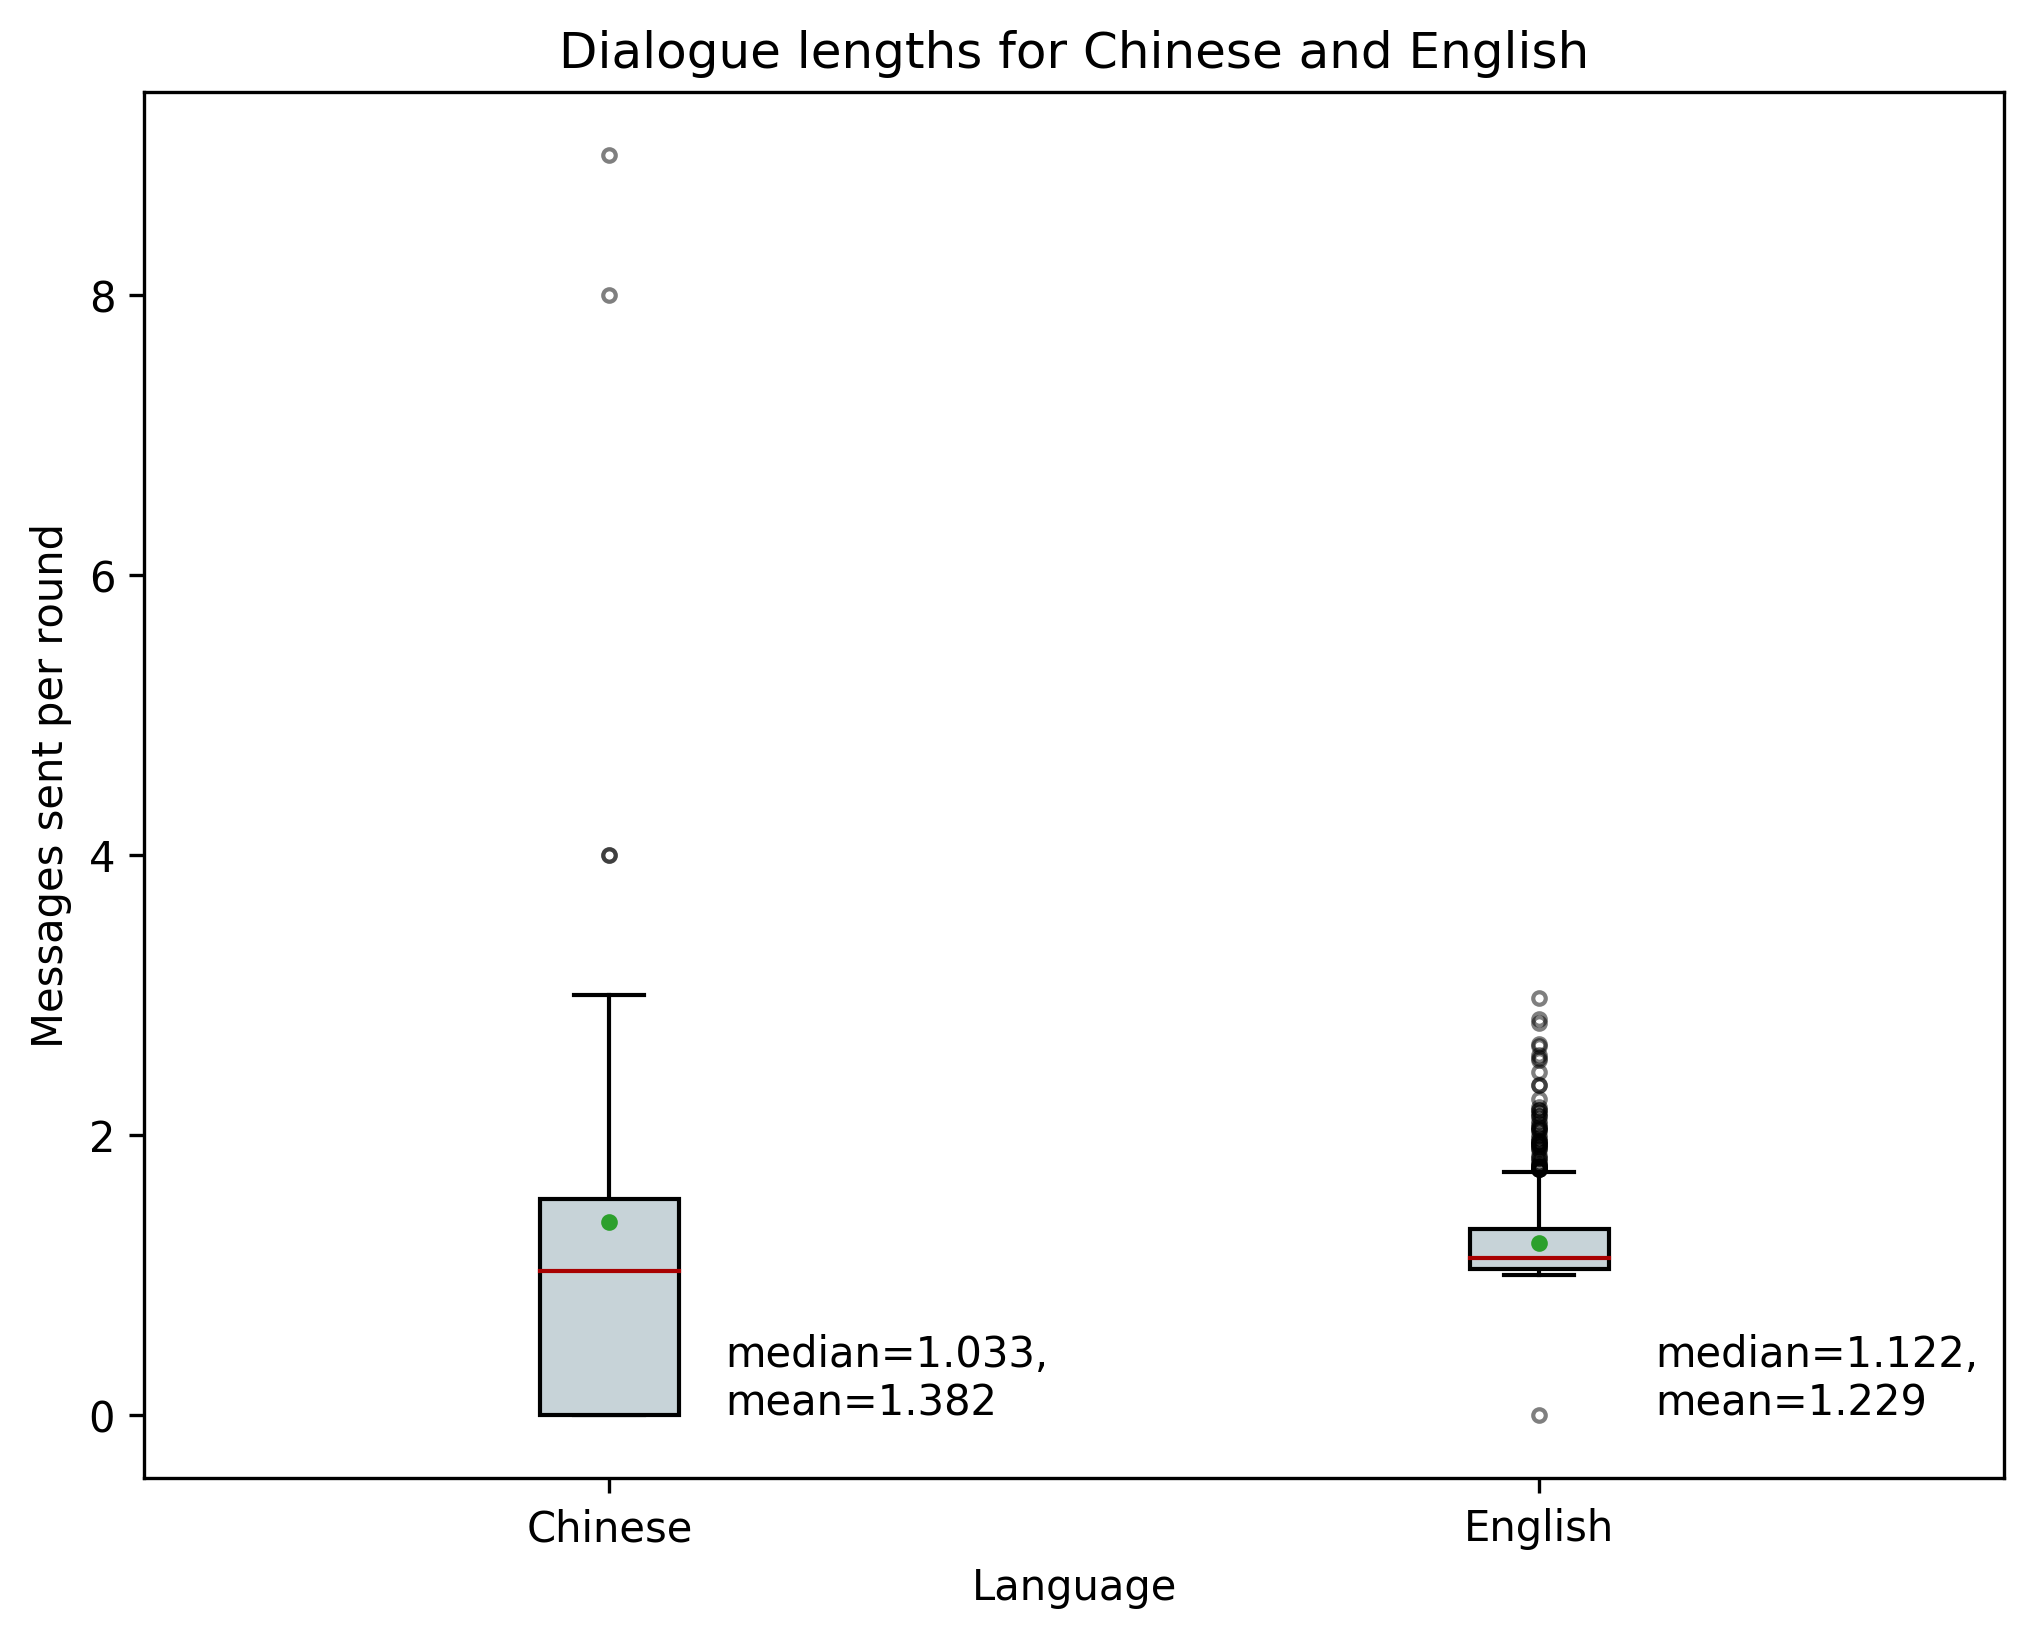
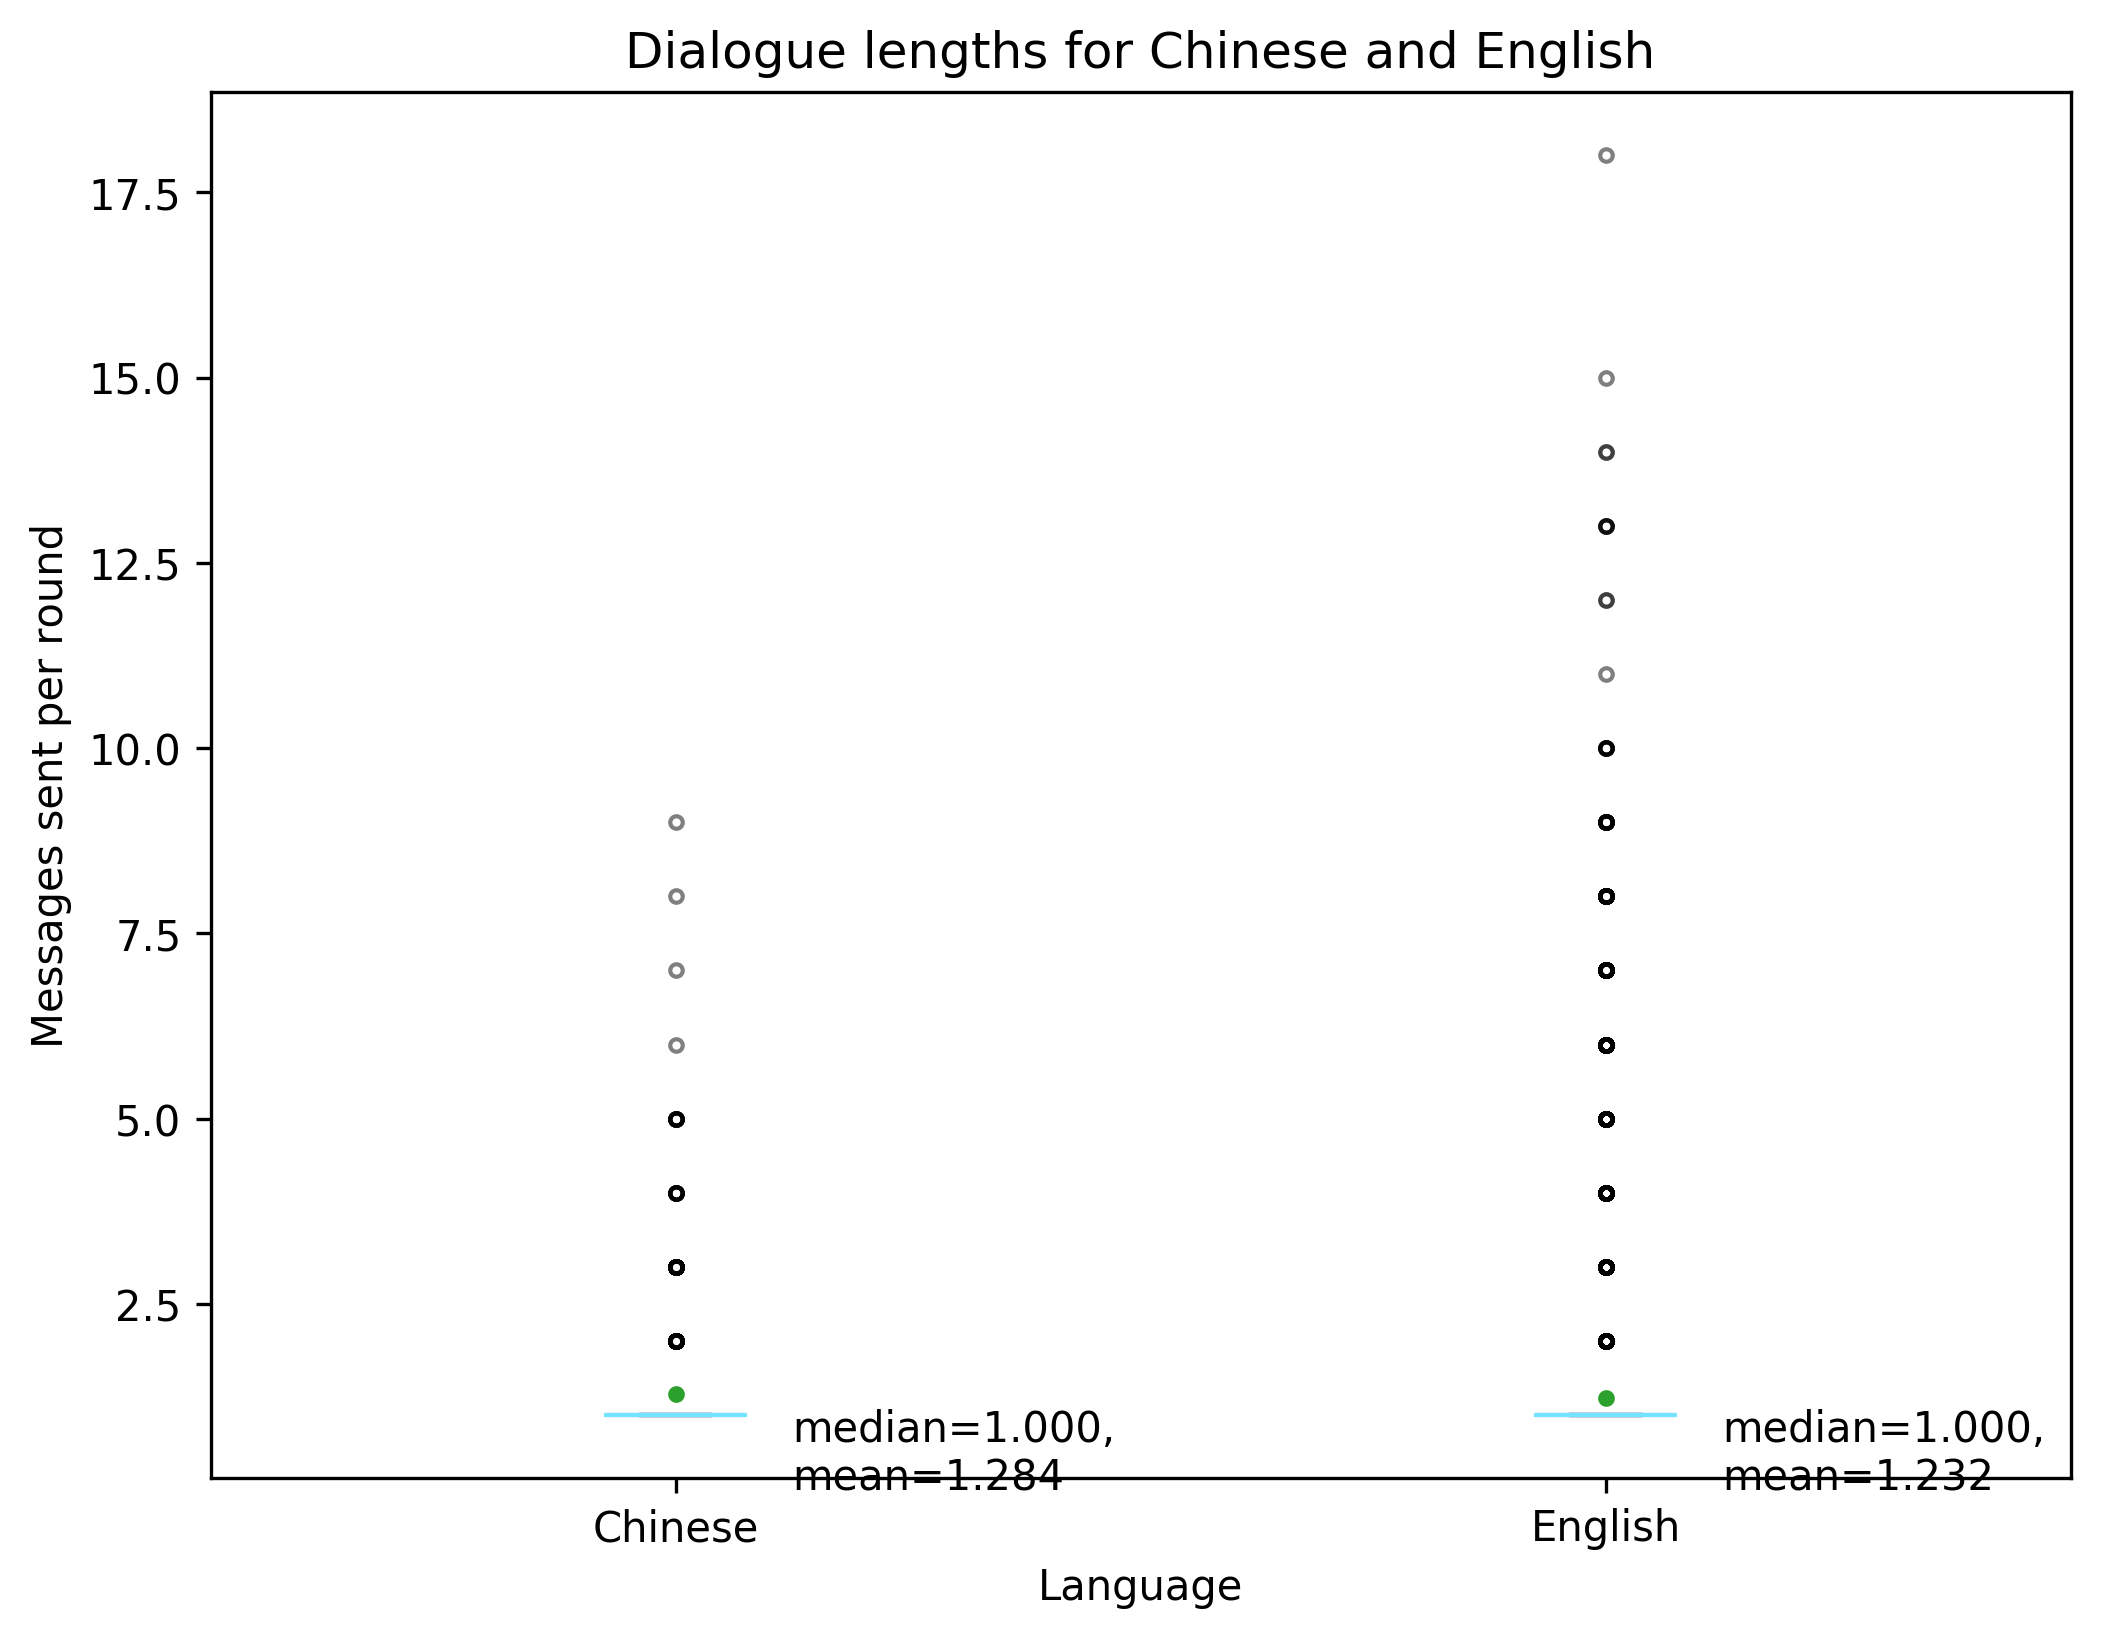
updated dlg_length function

diff --git a/languageAnalysis/comparison.py b/languageAnalysis/comparison.py
@@ -8,10 +8,12 @@ ZH_MSG_FILE = '../hawkins_data/colorReferenceMessageChinese.csv'
 ZH_CLICK_FILE = '../hawkins_data/colorReferenceClicksChinese.csv'
 EN_MSG_FILE = '../behavioralAnalysis/humanOutput/filteredCorpus.csv'
 PUNCTUATION = ['~',',','.','?','!','。','，','？','！','”']
+ZH_COLOR = '#EE3224'
+EN_COLOR = '#F78F1E'
 
 def msg_lengths(lang='english'):
     '''
-    Returns the average length of the messages sent for a given language
+    Returns the lengths of the messages sent for a given language
     (English or Chinese). For English, it counts the number of words
     (after removing punctuation and splitting on whitespaces), and for Chinese,
     it counts the number of chars (after removing punctuation, whitespaces,
@@ -37,34 +39,25 @@ def msg_lengths(lang='english'):
 
 def dlg_lengths(lang='english'):
     '''
-    Returns the average number of messages exchanged for a single round
+    Returns the numbers of messages exchanged for each round
     for a given language (English or Chinese).
     '''
     msg_file = ZH_MSG_FILE if lang == 'chinese' else EN_MSG_FILE
-    dlg_lengths = []
     with open(msg_file, 'r') as f:
         counts, gameid = {}, None
         for row in csv.DictReader(f):
-            if gameid == row['gameid']:
-                try:
-                    counts[row['roundNum']] += 1
-                except KeyError:
-                    counts[row['roundNum']] = 1
-            else:
-                avg_round_length = np.mean(counts.values()) if counts.values() else 0
-                dlg_lengths.append(avg_round_length)
-                counts, gameid = {}, row['gameid']
-    return dlg_lengths
+            roundid = str(row['gameid']) + str(row['roundNum'])
+            try:
+                counts[roundid] += 1
+            except KeyError:
+                counts[roundid] = 1
+    return counts.values()
 
-def superlative_usage(lang='english'):
-    '''
-    Returns how often superlatives are used on each of the three conditions
-    (far, split, close) for a given language (English or Chinese).
-    '''
-    msg_file = ZH_MSG_FILE if lang == 'chinese' else EN_MSG_FILE
+def usage(word='superlative', lang='english'):
     click_file = ZH_CLICK_FILE if lang == 'chinese' else EN_MSG_FILE
     if lang == 'chinese':
-        sups = {'further': [], 'closer': [], 'equal' : []}
+        msg_file = ZH_MSG_FILE
+        counts = {'further': [], 'closer': [], 'equal' : []}
         click_rows, msg_rows = [], []
         with open(click_file, 'r') as click_f:
             for click_row in csv.DictReader(click_f):
@@ -73,103 +66,46 @@ def superlative_usage(lang='english'):
             for msg_row in csv.DictReader(msg_f):
                 msg_rows.append(msg_row)
         for click_row in click_rows:
-            cond = click_row['condition']
-            gameid = click_row['gameid']
+            cond, gameid = click_row['condition'], click_row['gameid']
             game_msgs = [x['contents'] for x in msg_rows if x['gameid'] == gameid]
             for msg in game_msgs:
-                if '最' in msg:
-                    sups[cond].append(1)
+                if condition(msg, word=word, lang=lang):
+                    counts[cond].append(1)
                 else:
-                    sups[cond].append(0)
-        return np.mean(sups['further']), np.mean(sups['closer']), np.mean(sups['equal'])
+                    counts[cond].append(0)
+        return np.mean(counts['further']), np.mean(counts['closer']), np.mean(counts['equal'])
     else:
-        sups = {'far': [], 'split': [], 'close' : []}
+        counts = {'far': [], 'split': [], 'close' : []}
         with open(click_file, 'r') as f:
             for row in csv.DictReader(f):
                 cond = row['condition']
-                if 'est' in row['contents'] or ('most' in row['contents']
-                                            and 'almost' not in row['contents']):
-                    sups[cond].append(1)
+                if condition(row['contents'], word=word, lang=lang):
+                    counts[cond].append(1)
                 else:
-                    sups[cond].append(0)
-        return np.mean(sups['far']), np.mean(sups['split']), np.mean(sups['close'])
+                    counts[cond].append(0)
+        return np.mean(counts['far']), np.mean(counts['split']), np.mean(counts['close'])
 
-def comparative_usage(lang='english'):
-    '''
-    Returns how often comparatives are used on each of the three conditions
-    (far, split, close) for a given language (English or Chinese).
-    '''
-    msg_file = ZH_MSG_FILE if lang == 'chinese' else EN_MSG_FILE
-    click_file = ZH_CLICK_FILE if lang == 'chinese' else EN_MSG_FILE
-    if lang == 'chinese':
-        comps = {'further': [], 'closer': [], 'equal' : []}
-        click_rows, msg_rows = [], []
-        with open(click_file, 'r') as click_f:
-            for click_row in csv.DictReader(click_f):
-                click_rows.append(click_row)
-        with open(msg_file, 'r') as msg_f:
-            for msg_row in csv.DictReader(msg_f):
-                msg_rows.append(msg_row)
-        for click_row in click_rows:
-            cond = click_row['condition']
-            gameid = click_row['gameid']
-            game_msgs = [x['contents'] for x in msg_rows if x['gameid'] == gameid]
-            for msg in game_msgs:
-                if '更' in msg or '多' in msg or '少' in msg: # '比较' in msg
-                    comps[cond].append(1)
-                else:
-                    comps[cond].append(0)
-        return np.mean(comps['further']), np.mean(comps['closer']), np.mean(comps['equal'])
-    else:
-        comps = {'far': [], 'split': [], 'close' : []}
-        with open(click_file, 'r') as f:
-            for row in csv.DictReader(f):
-                cond = row['condition']
-                if ('er ' in row['contents'] and 'other ' not in row['contents'] \
-                                            and 'water' not in row['contents'] \
-                                            and 'hunter' not in row['contents']) \
-                    or 'more' in row['contents'] or 'less ' in row['contents']:
-                    comps[cond].append(1)
-                else:
-                    comps[cond].append(0)
-    return np.mean(comps['far']), np.mean(comps['split']), np.mean(comps['close'])
-
-def negation_usage(lang='english'):
-    '''
-    Returns how often negations are used on each of the three conditions
-    (far, split, close) for a given language (English or Chinese).
-    '''
-    msg_file = ZH_MSG_FILE if lang == 'chinese' else EN_MSG_FILE
-    click_file = ZH_CLICK_FILE if lang == 'chinese' else EN_MSG_FILE
-    if lang == 'chinese':
-        negs = {'further': [], 'closer': [], 'equal' : []}
-        click_rows, msg_rows = [], []
-        with open(click_file, 'r') as click_f:
-            for click_row in csv.DictReader(click_f):
-                click_rows.append(click_row)
-        with open(msg_file, 'r') as msg_f:
-            for msg_row in csv.DictReader(msg_f):
-                msg_rows.append(msg_row)
-        for click_row in click_rows:
-            cond = click_row['condition']
-            gameid = click_row['gameid']
-            game_msgs = [x['contents'] for x in msg_rows if x['gameid'] == gameid]
-            for msg in game_msgs:
-                if '不' in msg:
-                    negs[cond].append(1)
-                else:
-                    negs[cond].append(0)
-        return np.mean(negs['further']), np.mean(negs['closer']), np.mean(negs['equal'])
-    else:
-        negs = {'far': [], 'split': [], 'close' : []}
-        with open(click_file, 'r') as f:
-            for row in csv.DictReader(f):
-                cond = row['condition']
-                if 'not' in row['contents']:
-                    negs[cond].append(1)
-                else:
-                    negs[cond].append(0)
-        return np.mean(negs['far']), np.mean(negs['split']), np.mean(negs['close'])
+def condition(msg, word='superlative', lang='english'):
+    if word == 'superlative':
+        if lang == 'english':
+            return 'est' in msg \
+                    or ('most' in msg and 'almost' not in msg)
+        elif lang == 'chinese':
+            return '最' in msg
+    if word == 'comparative':
+        if lang == 'english':
+            return 'er ' in msg and 'other ' not in msg \
+                    and 'water' not in msg \
+                    and 'hunter' not in msg \
+                    or 'more' in msg or 'less ' in msg
+        elif lang == 'chinese':
+            zh_comps = ['更', '多', '少']
+            return any([x in msg for x in zh_comps])
+    if word == 'negation':
+        if lang == 'english':
+            return 'not' in msg
+        elif lang == 'chinese':
+            return '不' in msg
 
 def specificity(lang='english'):
     '''
@@ -183,12 +119,12 @@ def boxplot(data, plot_file, xticks=[], xlabel='', ylabel='', title=''):
     fig = plt.figure(1, figsize=(8,6))
     ax = fig.add_subplot(111)
     bp = ax.boxplot(data, patch_artist=True, showmeans=True)
-    for box in bp['boxes']:
-        box.set(facecolor = '#c7d3d8')
+    bp['boxes'][0].set(facecolor=ZH_COLOR, alpha=0.5)
+    bp['boxes'][1].set(facecolor=EN_COLOR, alpha=0.5)
     for median in bp['medians']:
-        median.set(color='#a80101')
+        median.set(color='#75e3ff')
     for mean in bp['means']:
-        mean.set(color='#a80101', marker='.')
+        mean.set(marker='.')
     for flier in bp['fliers']:
         flier.set(marker='.', color='#e7298a', alpha=0.5)
     for i in xrange(len(data)):
@@ -209,16 +145,15 @@ def show_values(ax, rects):
         ax.text(rect.get_x() + rect.get_width()/2., height+0.0005,
                 '%.3f' % height, ha='center', va='bottom')
 
-# expect list of lists for data
 def bargraph(data, plot_file, xticks=[], series_names=[], xlabel='', ylabel='', title=''):
     pos = np.arange(len(data[0]))
     width = 0.25
     fig, ax = plt.subplots(figsize=(8,6))
 
-    rects1 = ax.bar(pos, data[0], width, alpha=0.5, color='#EE3224')
-    rects2 = ax.bar(pos+width, data[1], width, alpha=0.5, color='#F78F1E')
-    show_values(ax, rects1)
-    show_values(ax, rects2)
+    zh_rects = ax.bar(pos, data[0], width, alpha=0.5, color=ZH_COLOR)
+    en_rects = ax.bar(pos + width, data[1], width, alpha=0.5, color=EN_COLOR)
+    show_values(ax, zh_rects)
+    show_values(ax, en_rects)
 
     ax.set_xlabel(xlabel)
     ax.set_ylabel(ylabel)
@@ -229,7 +164,7 @@ def bargraph(data, plot_file, xticks=[], series_names=[], xlabel='', ylabel='', 
     plt.legend(series_names, loc='upper left')
     fig.savefig(plot_file, dpi=300)
 
-def compare(attributeid='', verbose=False, plot=True):
+def compare(attributeid='', verbose=True, plot=True):
     if attributeid == 'msg_length':
         zh_msg_lengths = msg_lengths(lang='chinese')
         en_msg_lengths = msg_lengths(lang='english')
@@ -255,10 +190,10 @@ def compare(attributeid='', verbose=False, plot=True):
             ylabel='Messages sent per round',
             title='Dialogue lengths for Chinese and English')
     elif attributeid == 'sup_usage':
-        zh_sups = superlative_usage(lang='chinese')
-        en_sups = superlative_usage(lang='english')
+        zh_sups = usage(word='superlative',lang='chinese')
+        en_sups = usage(word='superlative',lang='english')
         if verbose:
-            print 'percentage of messages using superlatives'
+            print 'proportion of messages using superlatives'
             print ' * ZH: ', zh_sups
             print ' * EN: ', en_sups
         if plot:
@@ -268,10 +203,10 @@ def compare(attributeid='', verbose=False, plot=True):
                 ylabel='Proportion of messages containing superlative',
                 title='Superlative usage for Chinese and English')
     elif attributeid == 'comp_usage':
-        zh_comps = comparative_usage(lang='chinese')
-        en_comps = comparative_usage(lang='english')
+        zh_comps = usage(word='comparative',lang='chinese')
+        en_comps = usage(word='comparative',lang='english')
         if verbose:
-            print 'percentage of messages using comparatives'
+            print 'proportion of messages using comparatives'
             print ' * ZH: ', zh_comps
             print ' * EN: ', en_comps
         if plot:
@@ -281,10 +216,10 @@ def compare(attributeid='', verbose=False, plot=True):
                 ylabel='Proportion of messages containing comparative',
                 title='Comparative usage for Chinese and English')
     elif attributeid == 'neg_usage':
-        zh_negs = negation_usage(lang='chinese')
-        en_negs = negation_usage(lang='english')
+        zh_negs = usage(word='negation',lang='chinese')
+        en_negs = usage(word='negation',lang='english')
         if verbose:
-            print 'percentage of messages using negation'
+            print 'proportion of messages using negation'
             print ' * ZH: ', zh_negs
             print ' * EN: ', en_negs
         if plot:
